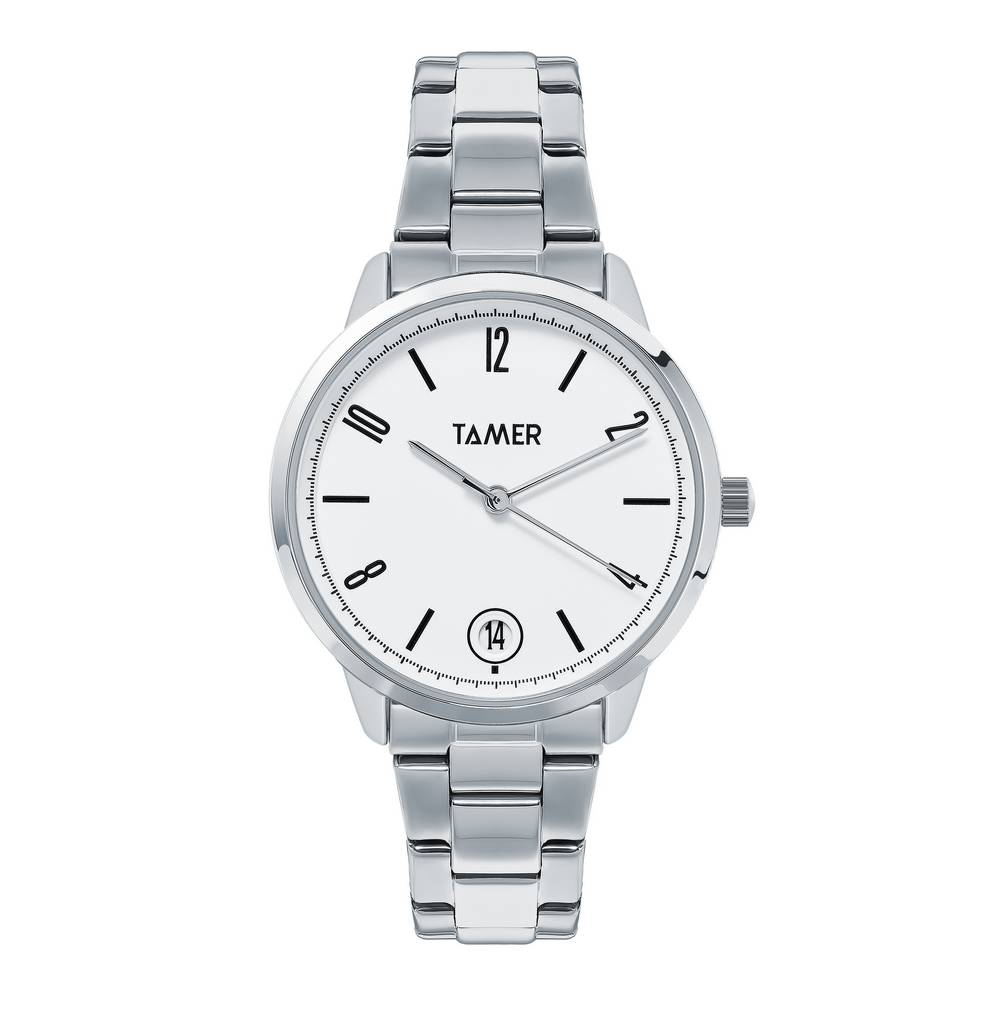
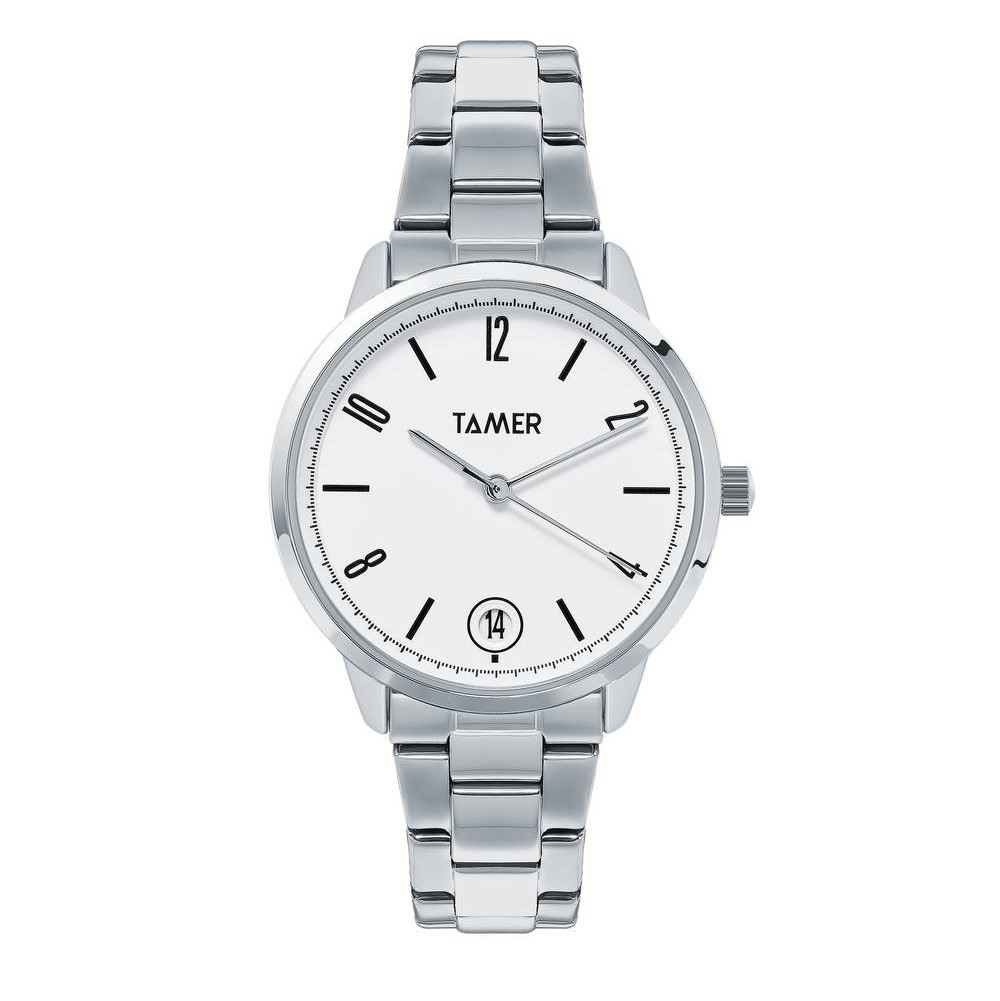
Исправлены размеры

diff --git a/style/style.css b/style/style.css
@@ -281,17 +281,16 @@ div.popular > .row > .col-md{
 }
 
 div.popular img {
-    width:9vw;
+    width:5.99vw;
+    height: 5.99vw;
 }
 
 div.row.justify-content-between {
     white-space: nowrap;
 }
 
-div.pop-head{
-    font-style: normal;
-    font-weight: normal;
-    font-size: 3rem;
+div.pop-head > h1{
+    font-size: 2.1818181818181817rem !important;
 }
 
 div.align-items-center > div > p {
@@ -320,6 +319,7 @@ p.grey {
 
 .p-pad {
     padding-right: calc(1rem*1.375);
+    font-size:1.0909090909090908rem;
 }
 
 body > div > div.row.no-gutters.justify-content-between > .col-md{

diff --git a/index.html b/index.html
@@ -128,7 +128,7 @@
   <!-- Популярные товары -->
   <div class="container-fluid popular mb-3 mt-3">
     <div class="row pop-head pt-3">
-      <p>Популярные товары</p>
+      <h1>Популярные товары</h1>
     </div>
     <div class="row no-gutters justify-content-between">
       <div class="col-md col-sm-12 mr-4">
